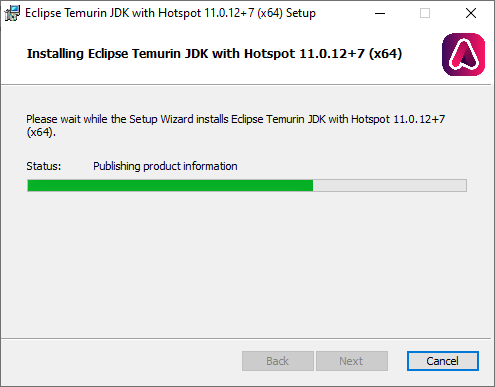
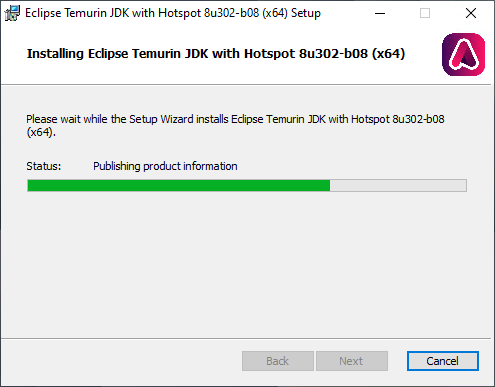
Update article "Установка Open JDK в Windows"

diff --git a/2021-08-09-install-open-jdk-on-windows/2021-08-09-install-open-jdk-on-windows.md b/2021-08-09-install-open-jdk-on-windows/2021-08-09-install-open-jdk-on-windows.md
@@ -10,7 +10,7 @@ related-id: start-java
 
 Вместо [установки стандартного JDK](/blog/2019/install-jdk-on-windows/) можно установить [OpenJDK](https://ru.wikipedia.org/wiki/OpenJDK). Найти его можно на сайте <https://openjdk.java.net/>, но там не предоставляются установщики под Windows: «Мы вам сделали версию под GNU GPL? А собирать сами будете». Благо есть много организаций, которые сами собирают OpenJDK и его распространяют. Один из вариантов — это сайт <https://adoptium.net/>, который с 2021 года находится под крылом Eclipse, так что их сборкам можно доверять.
 
-Например, мне нужен OpenJDK для работы Qt под Android. И там по [документации](https://doc.qt.io/qt-5/android-getting-started.html) нужна версия JDK от 11 и ниже. Поэтому на сайте <https://adoptium.net/> скачиваем именно JDK 11:
+Например, мне нужен OpenJDK для работы Qt под Android. И там на 2021-08 до сих пор нужна версия JDK 8. Поэтому на сайте <https://adoptium.net/> скачиваем именно JDK 8:
 
 ![Скачивание установщика](img/download.png)
 
@@ -28,4 +28,4 @@ related-id: start-java
 
 ![Окончание установки](img/install_05.png)
 
-Всё. JDK устанавливается в папку вида `C:\Program Files\Eclipse Foundation\jdk-11.0.12.7-hotspot\`.
+Всё. JDK устанавливается в папку вида `C:\Program Files\Eclipse Foundation\jdk-8.0.302.8-hotspot`.
